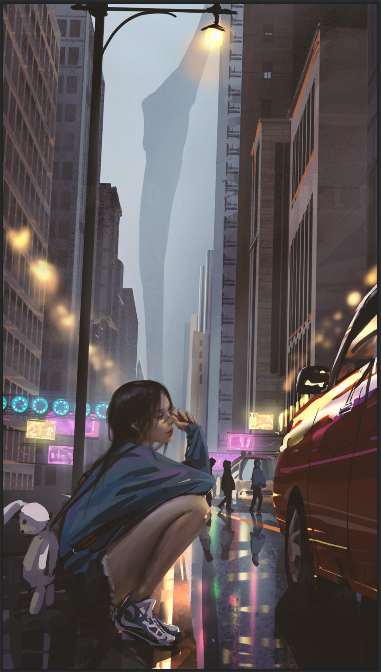
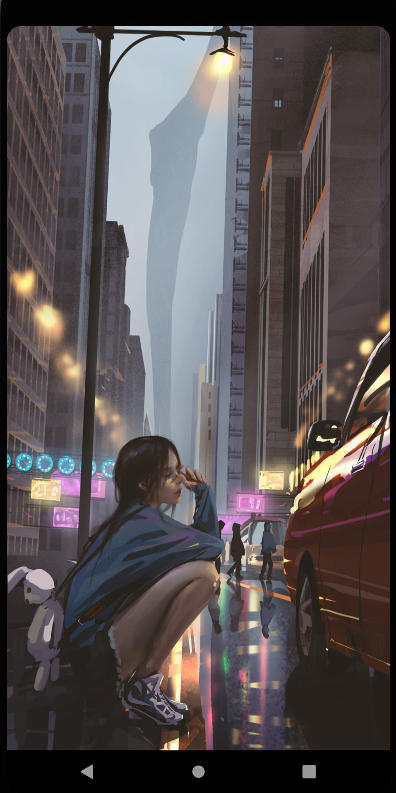
docs: added assets for readme

diff --git a/README.md b/README.md
@@ -1,7 +1,25 @@
 # OtakuVortex
 
+🌟Introducing **OtakuVortex**: Your Ultimate Hub for Anime and Manga Delights.Premier hub for anime and manga lovers🌸. Curated content, user-friendly interface, vibrant community. Dive into limitless anime and manga enjoyment.
+
 <p align="center">
 	<img src="app/src/main/res/drawable/logo_bg_removed.png" alt="logo" width="380" height="auto">
 </p>
 
-`note` still on work
+### Screenshots 
+
+<table>
+
+<tr>
+<td>
+<p align="center">
+	<img src="./assets/landing_screenshot.png" alt="landing screen" height="460px" width="410px">
+</p>
+</td>
+<td>
+<p align="center">
+	<img src="./assets/home_screenshot.png" alt="homescreen" height="auto">
+</p>
+</td>
+</tr>
+</table>
